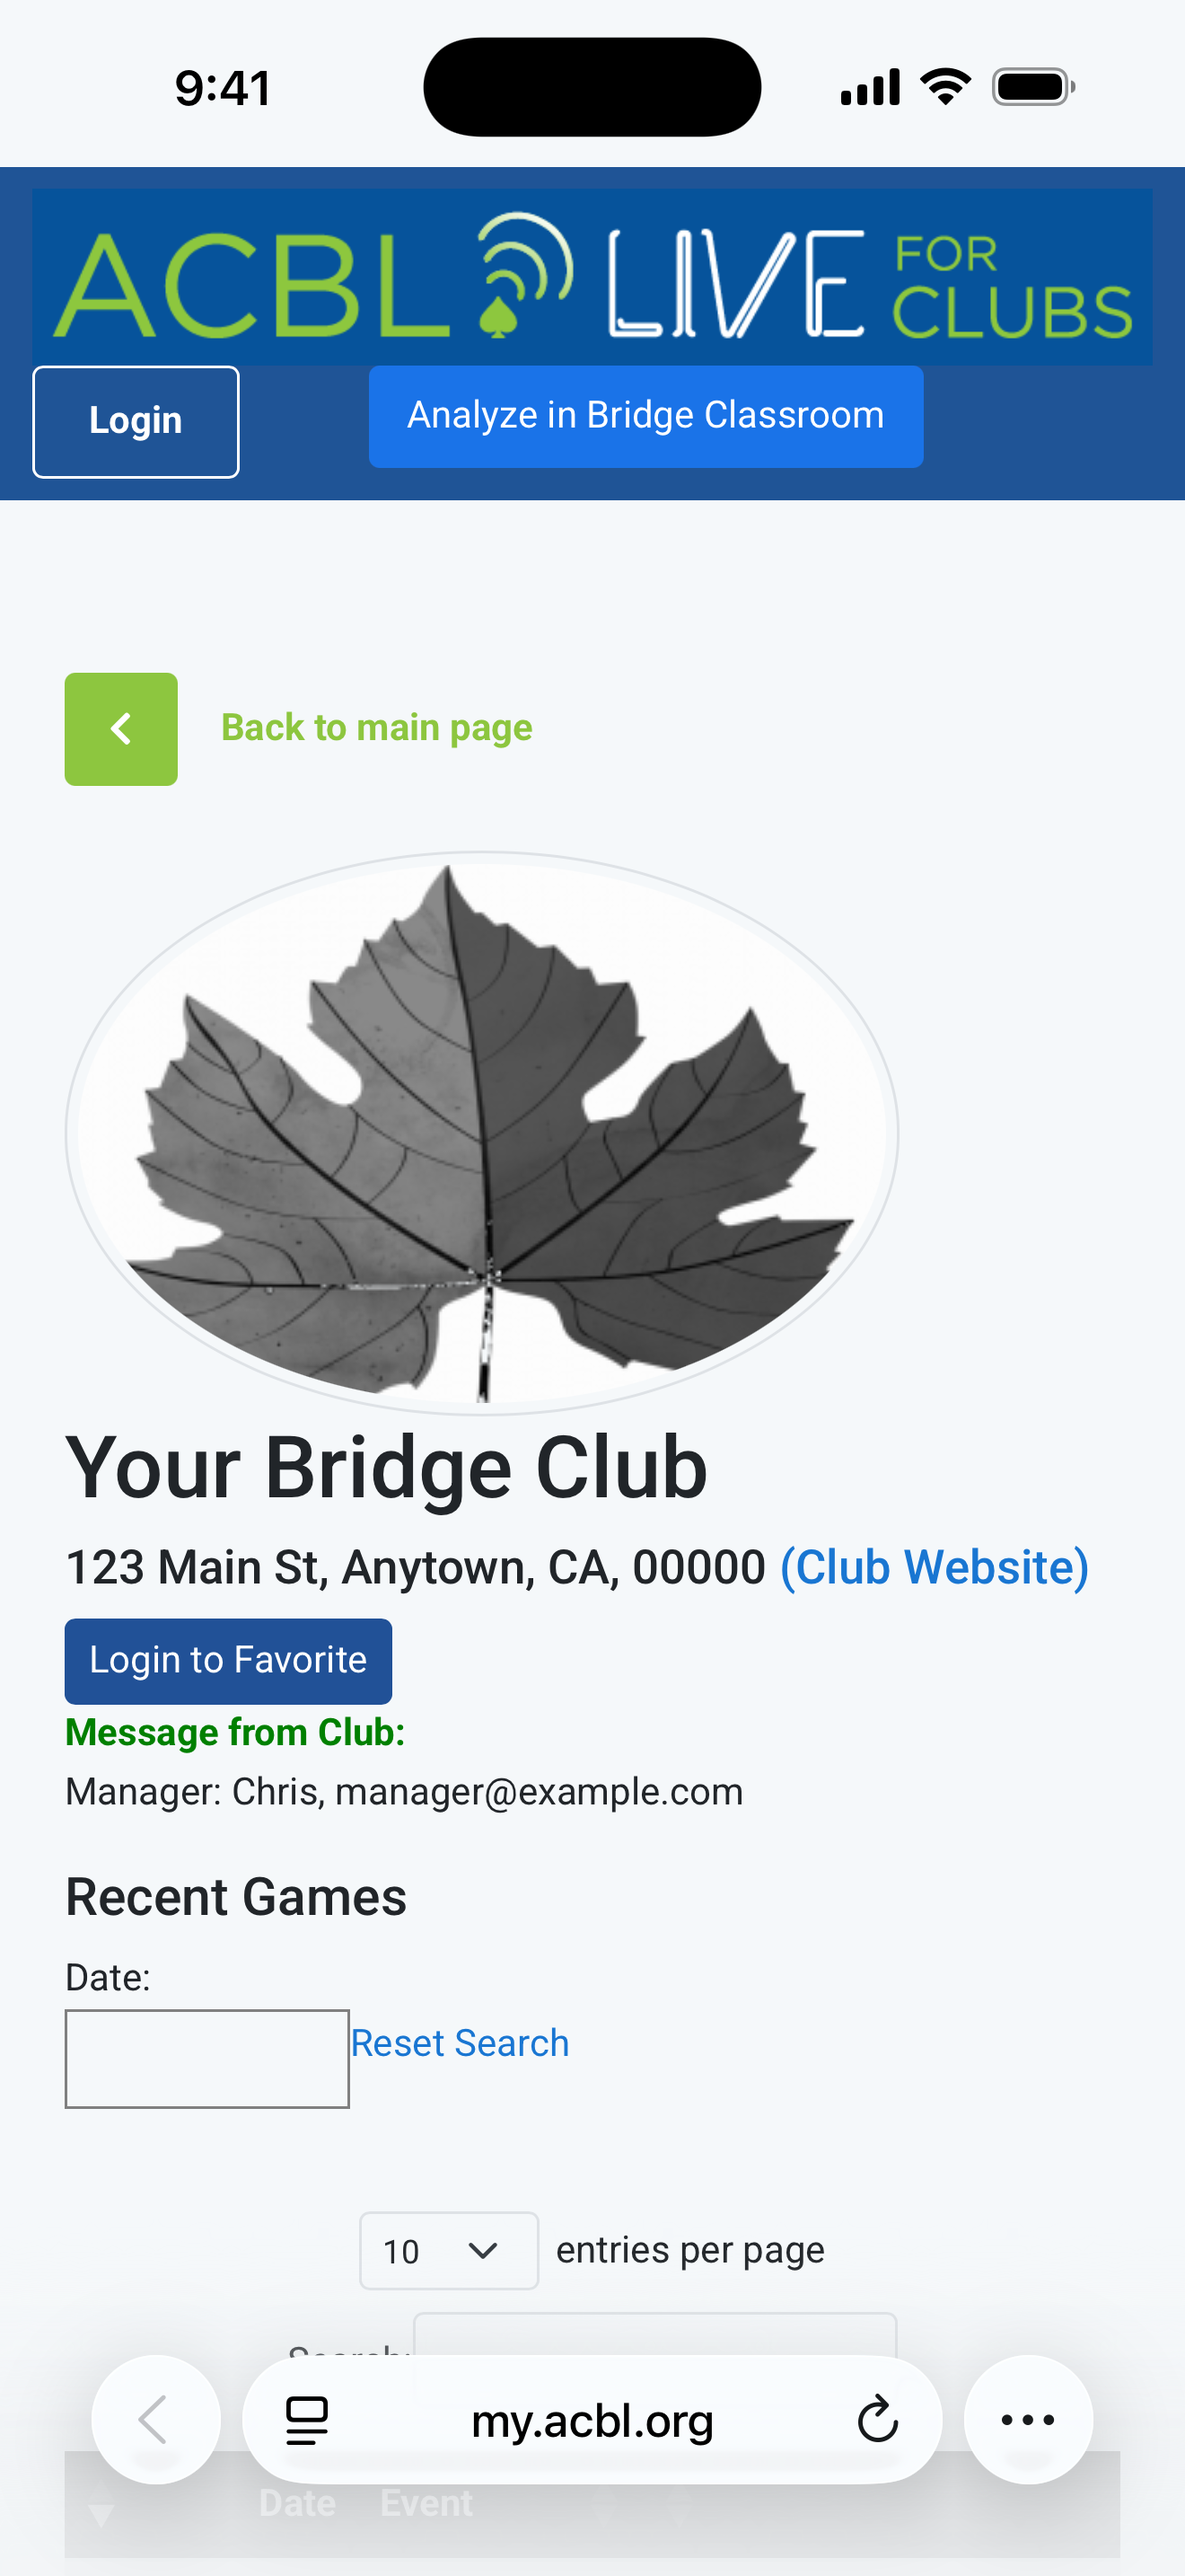
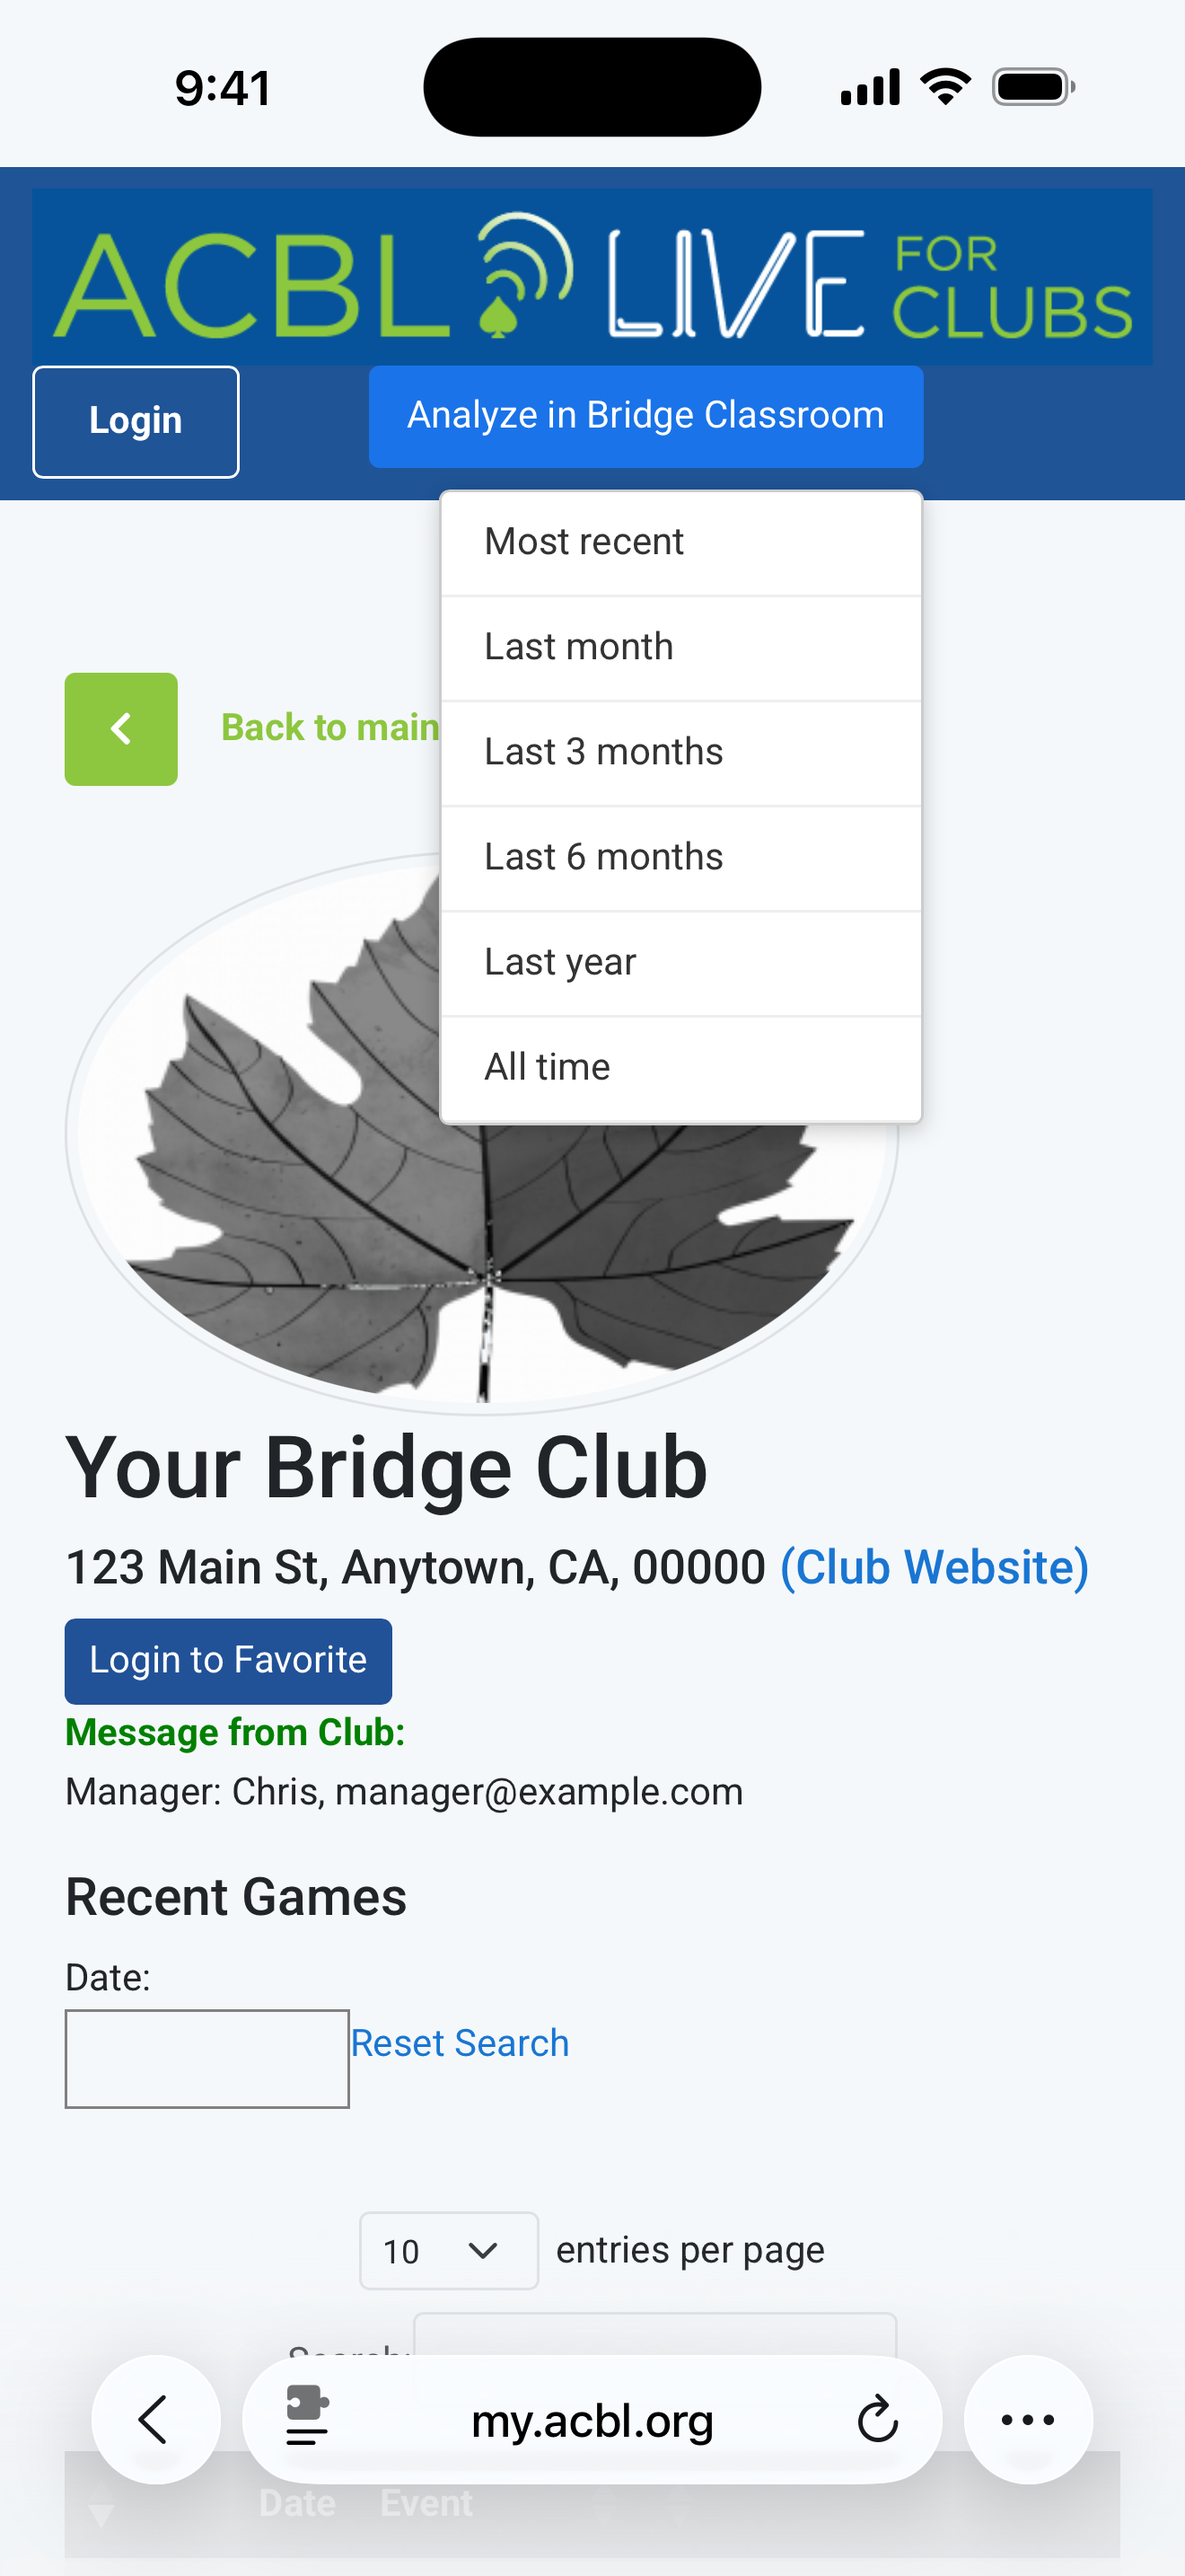
Capture the batch menu open, not the button idle
Rick's framing, and it is better than what the script was taking. On
these pages the injected button IS the work, and it lives in the site's
header — so scrolling to bring the results table into frame would take
our own contribution out of the shot, leaving a screenshot of somebody
else's website. Scrolling is out.

That leaves the opposite problem: a button sitting there only proves
something was injected. The date-range menu shows what it does — most
recent, a month, three, six, a year, all time — in the same frame, with
no second shot and no scrolling.

The simulator cannot be tapped from simctl, but we ship the button, so
SHOT_MODE opens it: #bc-shot-menu on the URL makes the redactor click
our own button once the Vue mount has produced it. It opens the menu
only; nothing is fetched until an option is chosen and nothing chooses
one. Named to avoid #bc-analyze, which the extension already uses to
trigger a real extraction.

diff --git a/src/ui/redactContent.js b/src/ui/redactContent.js
@@ -55,6 +55,33 @@ function run() {
   }
 }
 
+// Open the batch menu for a screenshot, when asked via #bc-shot-menu.
+//
+// The button is the entirety of our work on these pages, so a shot must not
+// scroll it out of frame — and a shot of the button alone says only that it
+// exists. The menu it opens says what it *does*: a date range, up to all time.
+//
+// Deliberately not "bc-analyze", which the extension already uses to trigger a
+// real extraction. This only opens the menu; nothing is fetched until an option
+// is chosen, and nothing chooses one.
+function openMenuIfAsked() {
+  if (!location.hash.includes('bc-shot-menu')) return
+  let tries = 0
+  const click = () => {
+    const btn = document.getElementById('bridge-classroom-analyze-btn')
+    if (btn) {
+      btn.click()
+      console.log('[shot-mode] opened the batch menu')
+      return
+    }
+    // The button arrives with the Vue mount, so poll rather than assume.
+    if (tries++ < 60) setTimeout(click, 100)
+    else console.error('[shot-mode] no button to open a menu on')
+  }
+  click()
+}
+
 // document_idle, so there is something to redact when the first pass runs.
 schedule()
 observer.observe(document.documentElement, { childList: true, subtree: true })
+openMenuIfAsked()

diff --git a/docs/screenshot-set.md b/docs/screenshot-set.md
@@ -275,6 +275,17 @@ image.
   aspect, wrong class.
 - **Shoot the club game first.** No account, most representative, and the one an
   Apple reviewer can reproduce.
+- **Never scroll to improve the framing.** On these pages the injected button
+  *is* the work, and it lives in the site's header — scrolling to bring the
+  results table into frame takes our own contribution out of it. A shot of a
+  results table with no button in it is a screenshot of somebody else's website.
+- **Prefer the menu open to the button idle.** A button only proves something
+  was injected. The date-range menu — most recent, a month, three, six, a year,
+  all time — shows what it *does*, in one frame, without a second shot. Capture
+  it by appending `#bc-shot-menu` to the URL: the SHOT_MODE build clicks the
+  button for you once the SPA has mounted. It opens the menu only; nothing is
+  fetched until an option is chosen and nothing chooses one. Deliberately not
+  `#bc-analyze`, which the extension already uses to trigger a real extraction.
 - The extension behaves the same there as in Chrome — that was the 11 August
   finding — so nothing needs designing, only photographing.
 - **`openTempTab`'s off-screen window never runs on iPad**, so do not go looking
